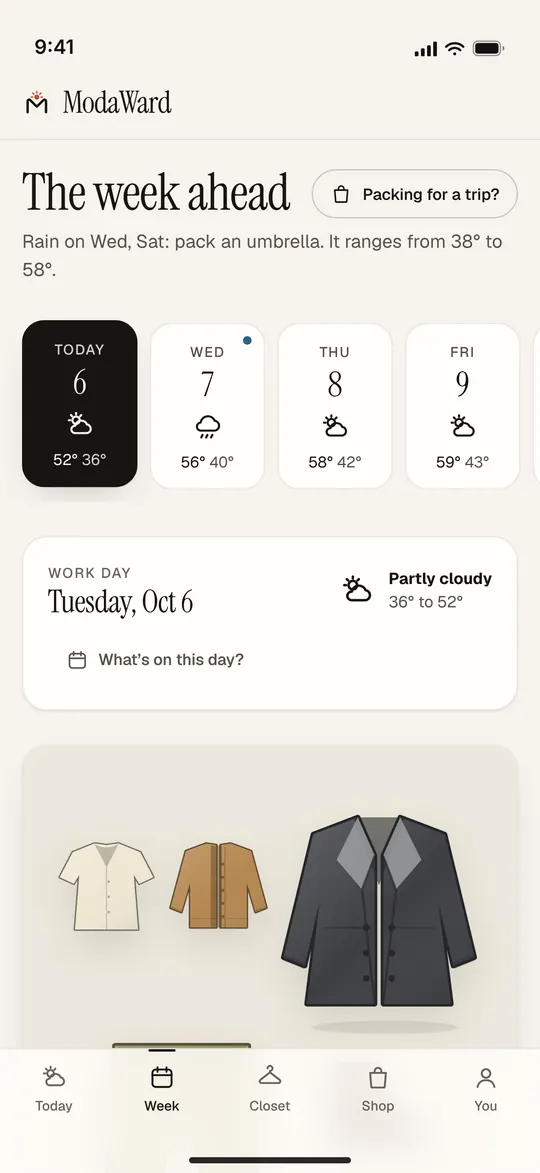
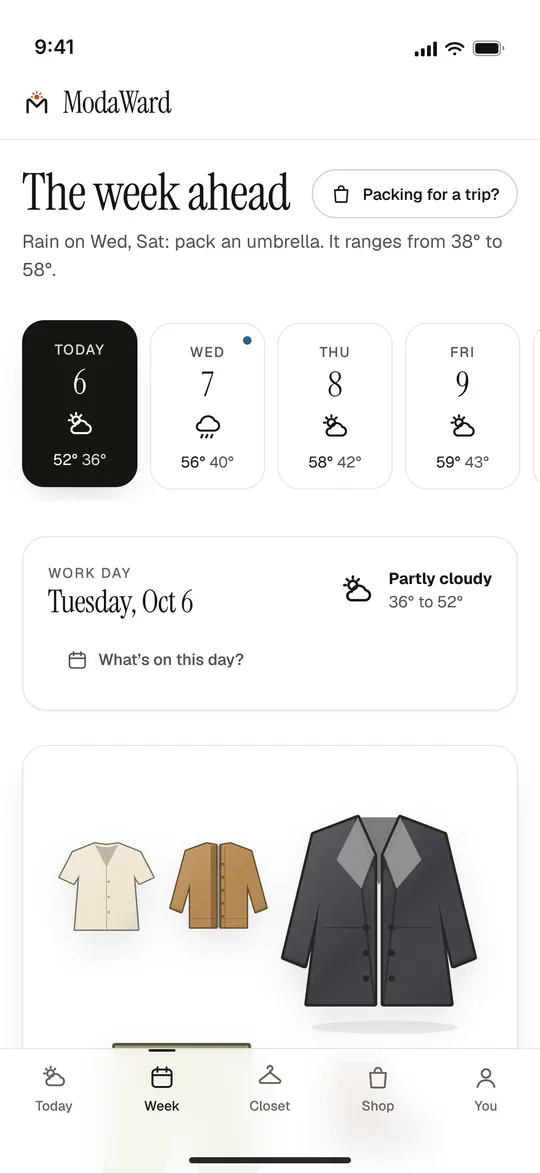
Use a white background for the light theme
Clothes, especially beige, camel, khaki and grey pieces, read better on white
than on the cream page and boards. The browser bar, installed-app colours,
shared outfit picture, reminder email and front-page screenshots follow.
Dark mode is unchanged.

Claude-Session: https://claude.ai/code/session_01D7GUAaHwtomMM7ZUhK9262

Changed region(s): [[0.0296, 0.6138, 0.9778, 0.9207]]

diff --git a/public/css/app.css b/public/css/app.css
@@ -9,10 +9,10 @@
 @font-face { font-family: 'Geist'; src: url('/fonts/geist-latin-ext.woff2') format('woff2-variations'), url('/fonts/geist-latin-ext.woff2') format('woff2'); font-weight: 100 900; font-style: normal; font-display: swap; unicode-range: U+0100-02AF, U+0304, U+0308, U+0329, U+1E00-1E9F, U+1EF2-1EFF, U+2020, U+20A0-20AB, U+20AD-20C0, U+2113, U+2C60-2C7F, U+A720-A7FF; }
 
 :root {
-  --bg: #f6f3ed;
-  --bg-2: #efeae1;
-  --surface: #fffdf9;
-  --surface-2: #f3efe7;
+  --bg: #ffffff;
+  --bg-2: #f4f4f3;
+  --surface: #ffffff;
+  --surface-2: #f5f5f4;
   --ink: #161511;
   --ink-2: #57534a;
   --ink-3: #68645a;
@@ -20,7 +20,7 @@
   --line-2: rgba(22, 21, 17, 0.2);
   --accent: #1f3d33;
   --accent-2: #2b5547;
-  --accent-ink: #f6f3ed;
+  --accent-ink: #ffffff;
   --clay: #b9502f;
   --clay-soft: #f3dfd5;
   --sky: #2e5f8a;
@@ -28,7 +28,7 @@
   --ok: #256a41;
   --warn: #8c5409;
   --danger: #b3392b;
-  --board: #ece7dc;
+  --board: #ffffff;
   --radius: 20px;
   --radius-m: 14px;
   --radius-s: 10px;
@@ -505,7 +505,7 @@ ul { margin: 0; padding: 0; list-style: none; }
   .auth-side { display: flex; flex-direction: column; justify-content: space-between; }
 }
 .auth-side .boards { display: flex; justify-content: center; align-items: center; gap: 18px; padding: 10px 0; }
-.auth-side .boards > div { width: min(220px, 24vw); background: #f1ede3; border-radius: 22px; padding: 14px; box-shadow: 0 24px 50px -22px rgba(0, 0, 0, 0.55); }
+.auth-side .boards > div { width: min(220px, 24vw); background: #ffffff; border-radius: 22px; padding: 14px; box-shadow: 0 24px 50px -22px rgba(0, 0, 0, 0.55); }
 .auth-side .boards > div:nth-child(1) { transform: rotate(-3deg) translateY(-8px); }
 .auth-side .boards > div:nth-child(2) { transform: rotate(2.5deg) translateY(14px); }
 .auth-side .boards > div > svg { width: 100%; height: auto; }

diff --git a/src/services/reminders.js b/src/services/reminders.js
@@ -136,11 +136,11 @@ export function createReminders({ db, repos, outfits, push, mailer, config, log,
     return {
       subject: msg.title,
       text: `${msg.greeting},\n\n${msg.title}\n${msg.body}\n\n${msg.cta}: ${link}\n\n--\n${footer}\n${t('Turn off emails')}: ${unsub}\n`,
-      html: `<div style="font-family:-apple-system,Segoe UI,Roboto,Helvetica,Arial,sans-serif;max-width:520px;margin:0 auto;padding:28px 20px;color:#161511;background:#f6f3ed">
+      html: `<div style="font-family:-apple-system,Segoe UI,Roboto,Helvetica,Arial,sans-serif;max-width:520px;margin:0 auto;padding:28px 20px;color:#161511;background:#ffffff">
 <p style="margin:0 0 6px;color:#57534a">${esc(msg.greeting)}</p>
 <h1 style="font-family:Georgia,'Times New Roman',serif;font-weight:400;font-size:28px;line-height:1.2;margin:0 0 12px">${esc(msg.title)}</h1>
 <p style="font-size:16px;line-height:1.5;margin:0 0 22px">${esc(msg.body)}</p>
-<p style="margin:0 0 30px"><a href="${esc(link)}" style="background:#1f3d33;color:#f6f3ed;text-decoration:none;padding:13px 22px;border-radius:999px;display:inline-block;font-weight:600">${esc(msg.cta)}</a></p>
+<p style="margin:0 0 30px"><a href="${esc(link)}" style="background:#1f3d33;color:#ffffff;text-decoration:none;padding:13px 22px;border-radius:999px;display:inline-block;font-weight:600">${esc(msg.cta)}</a></p>
 <p style="font-size:12px;color:#8a8578;margin:0">${esc(footer)} <a href="${esc(unsub)}" style="color:#8a8578">${esc(t('Turn off emails'))}</a></p>
 </div>`,
       headers: { 'List-Unsubscribe': `<${unsub}>` }

diff --git a/public/js/share.js b/public/js/share.js
@@ -42,8 +42,8 @@ export async function outfitPosterSvg({ items, weather, date, units, headline })
   const serif = `'Instrument Serif', 'Iowan Old Style', Georgia, 'Times New Roman', serif`;
   const sans = `Geist, -apple-system, 'Segoe UI', Roboto, Helvetica, Arial, sans-serif`;
   return `<svg xmlns="http://www.w3.org/2000/svg" width="${W}" height="${H}" viewBox="0 0 ${W} ${H}">
-    <rect width="${W}" height="${H}" fill="#f6f3ed"/>
-    <rect x="60" y="60" width="${W - 120}" height="900" rx="40" fill="#ece7dc"/>
+    <rect width="${W}" height="${H}" fill="#ffffff"/>
+    <rect x="60" y="60" width="${W - 120}" height="900" rx="40" fill="#f5f5f4"/>
     <svg x="150" y="100" width="780" height="820" viewBox="0 0 300 360" preserveAspectRatio="xMidYMid meet">${board}</svg>
     <text x="60" y="1060" font-family="${serif}" font-size="76" fill="#161511">${esc(headline)}</text>
     <text x="60" y="1118" font-family="${sans}" font-size="32" fill="#57534a">${esc(date ? longDate(date) : '')}${range ? ` · ${esc(range)}` : ''}</text>

diff --git a/mobile/templates/offline.html b/mobile/templates/offline.html
@@ -6,7 +6,7 @@
   <meta name="color-scheme" content="light dark" />
   <title>ModaWard</title>
   <style>
-    :root { --bg: #f6f3ed; --ink: #161511; --ink2: #57534a; --accent: #1f3d33; --accent-ink: #f6f3ed; }
+    :root { --bg: #ffffff; --ink: #161511; --ink2: #57534a; --accent: #1f3d33; --accent-ink: #ffffff; }
     @media (prefers-color-scheme: dark) { :root { --bg: #100f0d; --ink: #f3efe6; --ink2: #b9b4a6; --accent: #d9c9a3; --accent-ink: #15130e; } }
     * { box-sizing: border-box; }
     body { margin: 0; min-height: 100vh; min-height: 100dvh; display: grid; place-items: center; padding: max(24px, env(safe-area-inset-top)) 24px max(24px, env(safe-area-inset-bottom)); background: var(--bg); color: var(--ink); font-family: -apple-system, BlinkMacSystemFont, 'Segoe UI', Roboto, sans-serif; text-align: center; }

diff --git a/public/index.html b/public/index.html
@@ -6,7 +6,7 @@
   <title>ModaWard · Dress for the day ahead</title>
   <meta name="description" content="ModaWard plans what to wear from your own closet and the hour-by-hour forecast, then suggests complete looks from the stores you love." />
   <meta name="impact-site-verification" value="5a058969-50de-427e-83e4-b96422bae0f4" />
-  <meta name="theme-color" content="#f6f3ed" media="(prefers-color-scheme: light)" />
+  <meta name="theme-color" content="#ffffff" media="(prefers-color-scheme: light)" />
   <meta name="theme-color" content="#100f0d" media="(prefers-color-scheme: dark)" />
   <meta name="color-scheme" content="light dark" />
   <meta name="apple-mobile-web-app-capable" content="yes" />

diff --git a/mobile/templates/index.html b/mobile/templates/index.html
@@ -6,7 +6,7 @@
   <meta name="color-scheme" content="light dark" />
   <title>ModaWard</title>
   <style>
-    html, body { margin: 0; height: 100%; background: #f6f3ed; }
+    html, body { margin: 0; height: 100%; background: #ffffff; }
     @media (prefers-color-scheme: dark) { html, body { background: #100f0d; } }
   </style>
 </head>

diff --git a/CHANGELOG.md b/CHANGELOG.md
@@ -6,6 +6,9 @@ Versions follow [semver](https://semver.org): **major** = a change that needs ac
 
 ## [Unreleased]
 
+### Changed
+- **A white background for the light theme.** Pages, cards, outfit boards and closet tiles are now white instead of cream, so clothes (especially beige, camel, khaki and grey pieces) stand out better. The browser bar colour, the installed-app colours, the shared outfit picture and the reminder email follow. Dark mode is unchanged.
+
 ### Added (not yet visible in the app)
 - **Catalogue look, engine only.** A library of 56 fabrics and prints (`src/shared/fabrics.js`) and a recolouring renderer (`src/shared/catalogue.js`) that lays any colour and pattern over a garment template while keeping its folds and highlights. Tooling to add templates from photographs (`npm run template:add`), a coverage report (`npm run template:check`) and the shot list for all 54 garment types (`docs/TEMPLATES.md`). The screen that uses it comes next; no templates ship yet, so nothing changes for people using the app.
 
